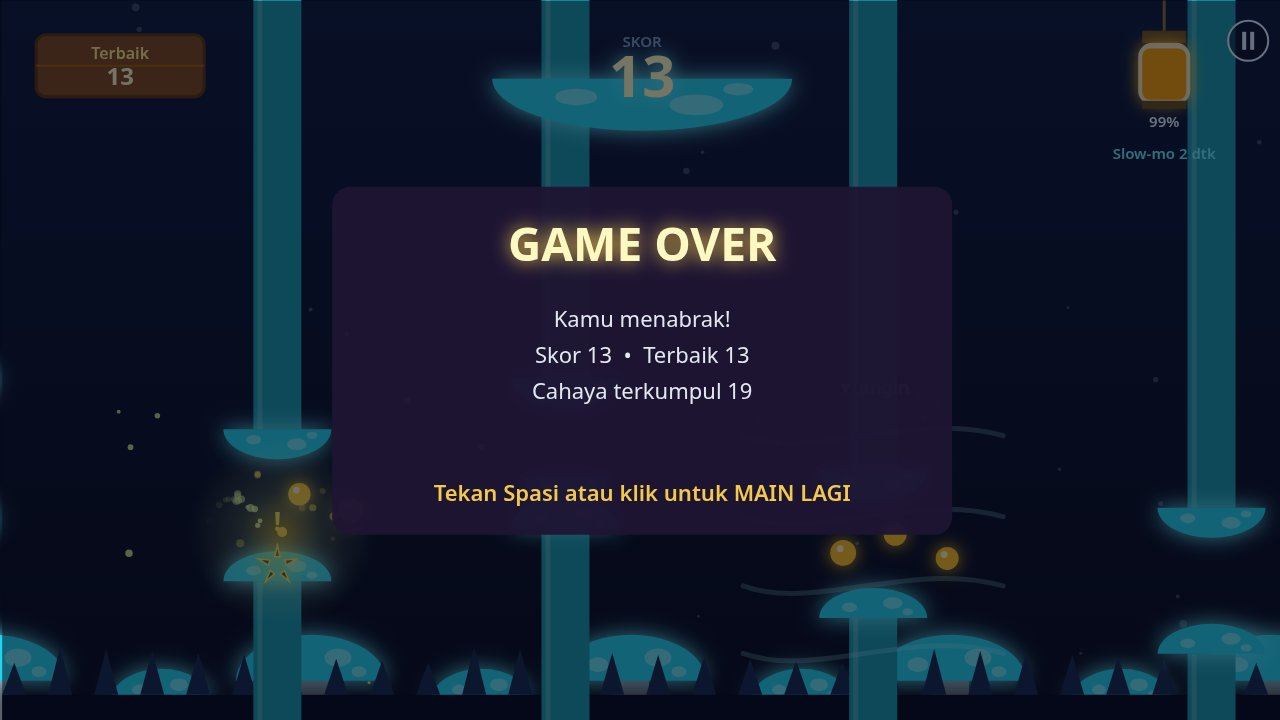
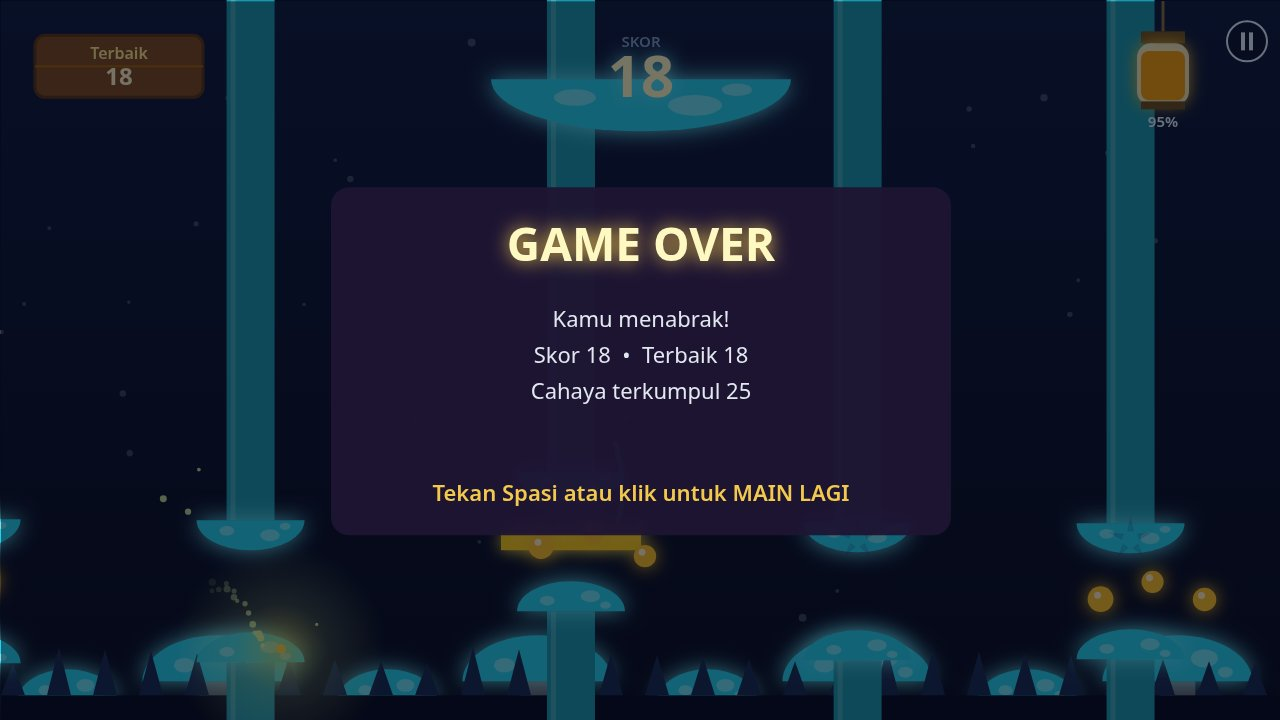
LUMEN patch v2: hidden trap 20+ only (strict PDF) + regenerated 4-end.jpg

diff --git a/game/src/config.js b/game/src/config.js
@@ -39,7 +39,7 @@ export const LIGHT = { fullSeconds: 25, orbRefill: 0.25, drain: 1 / 25 };
 export const BANDS = [
   { from: 0, to: 5, traps: [] },
   { from: 5, to: 10, guarantee: ['drop'], extraChance: 0.3, extra: ['drop'] },
-  { from: 10, to: 20, guarantee: ['snap', 'wind'], extraChance: 0.4, extra: ['drop', 'narrow', 'snap', 'wind', 'hidden'] },
+  { from: 10, to: 20, guarantee: ['snap', 'wind'], extraChance: 0.4, extra: ['drop', 'narrow', 'snap', 'wind'] },
   { from: 20, to: 9999, guarantee: [], extraChance: 0.65, extra: ['drop', 'narrow', 'snap', 'wind', 'hidden'] },
 ];
 
